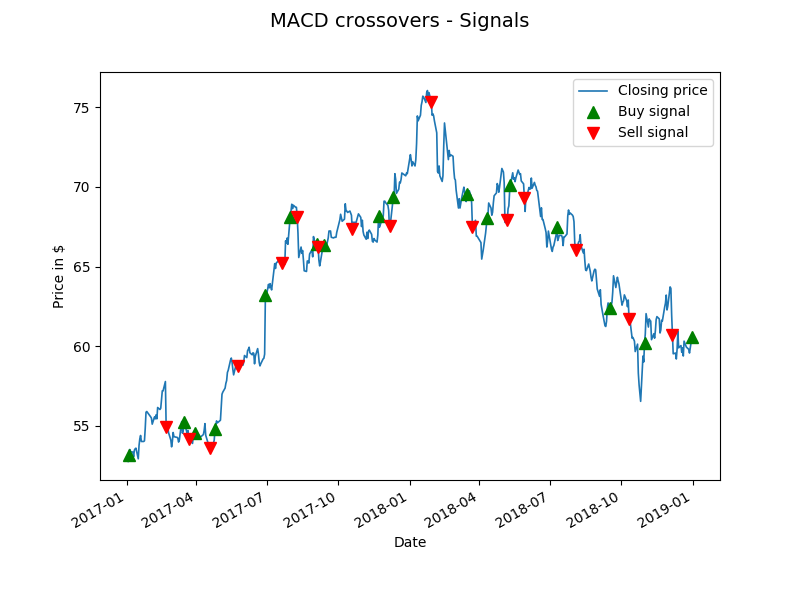
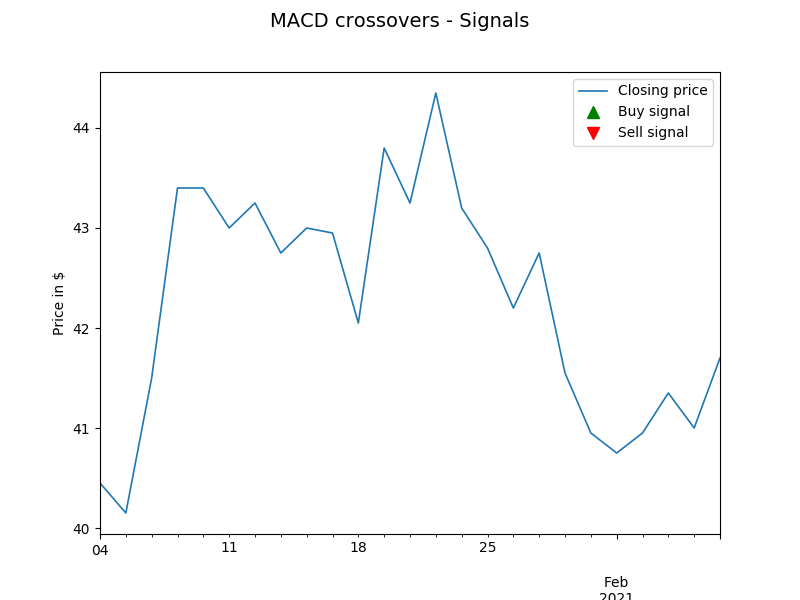
Complete baseline integrated strategy

diff --git a/code/technical-analysis_python/main_macd_crossover.py b/code/technical-analysis_python/main_macd_crossover.py
@@ -15,7 +15,7 @@ from evaluate import PortfolioReturn, SharpeRatio, MaxDrawdown, CAGR
 df = pd.read_csv('../../database/hkex_ticks_day/hkex_0005.csv', header=0, index_col='Date', parse_dates=True)
 
 # select time range
-df = df.loc[pd.Timestamp('2017-01-01'):pd.Timestamp('2019-01-01')]
+df = df.loc[pd.Timestamp('2021-01-01'):pd.Timestamp('2021-02-05')]
 
 ticker = "0005.HK"
 
